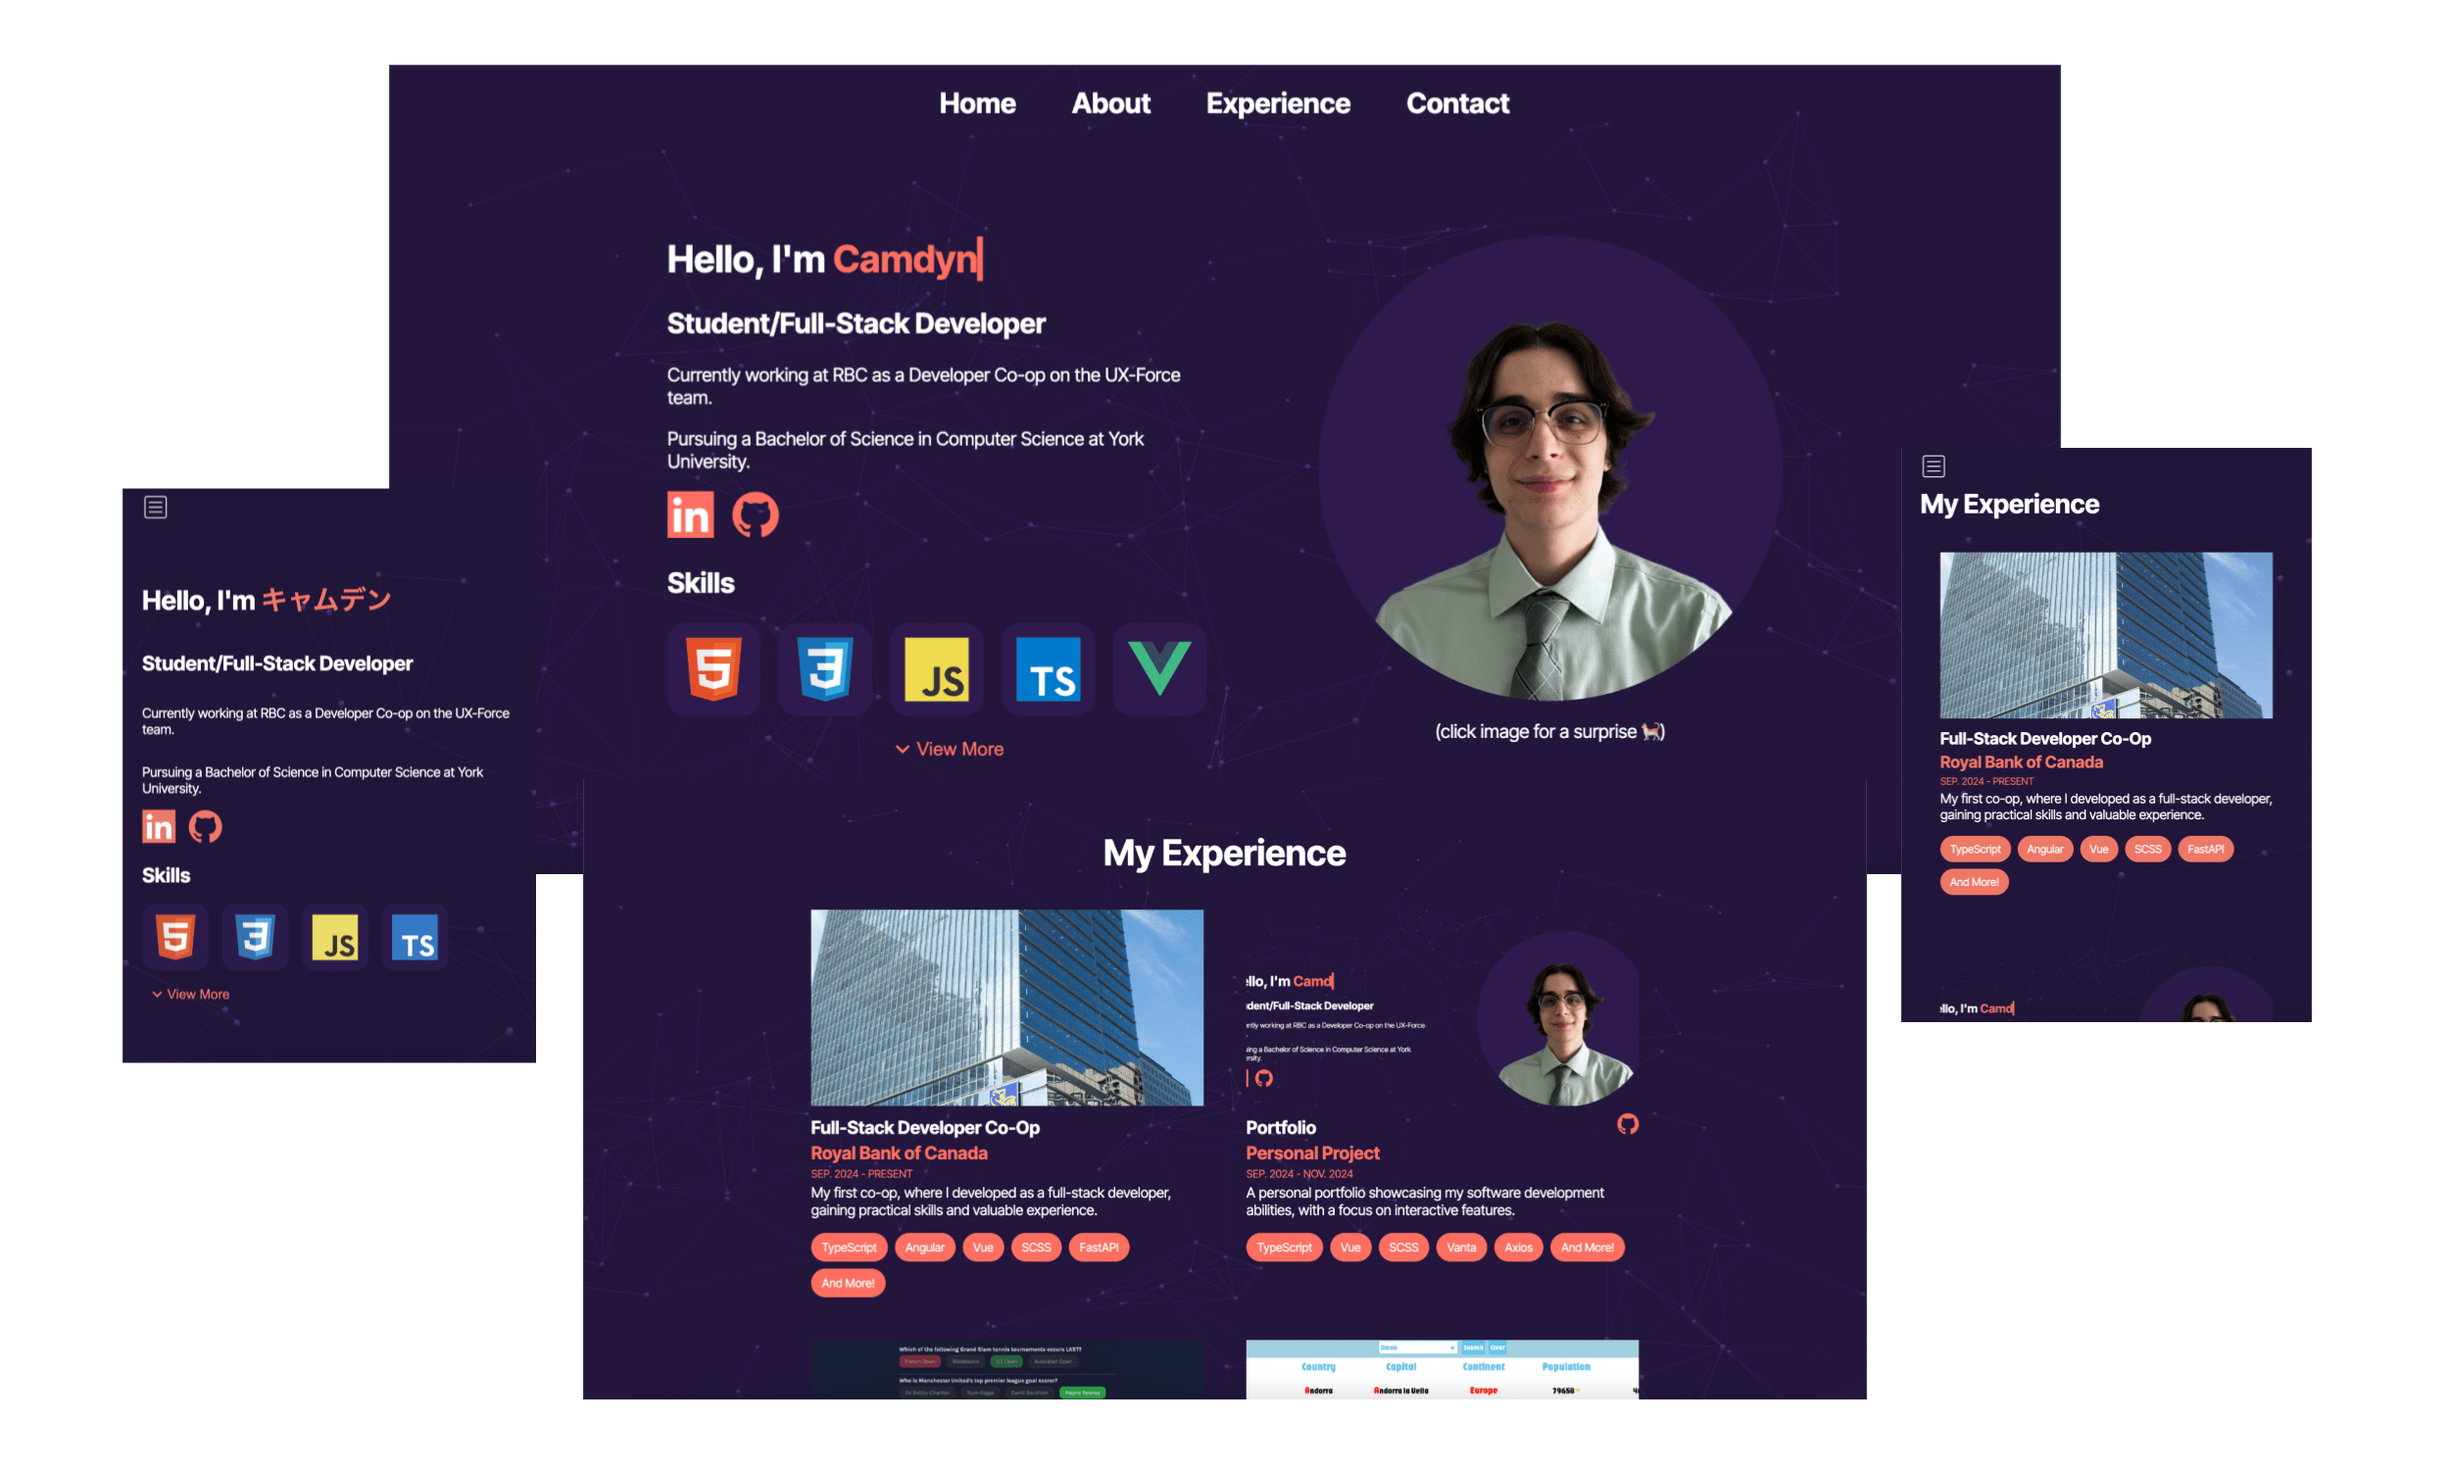
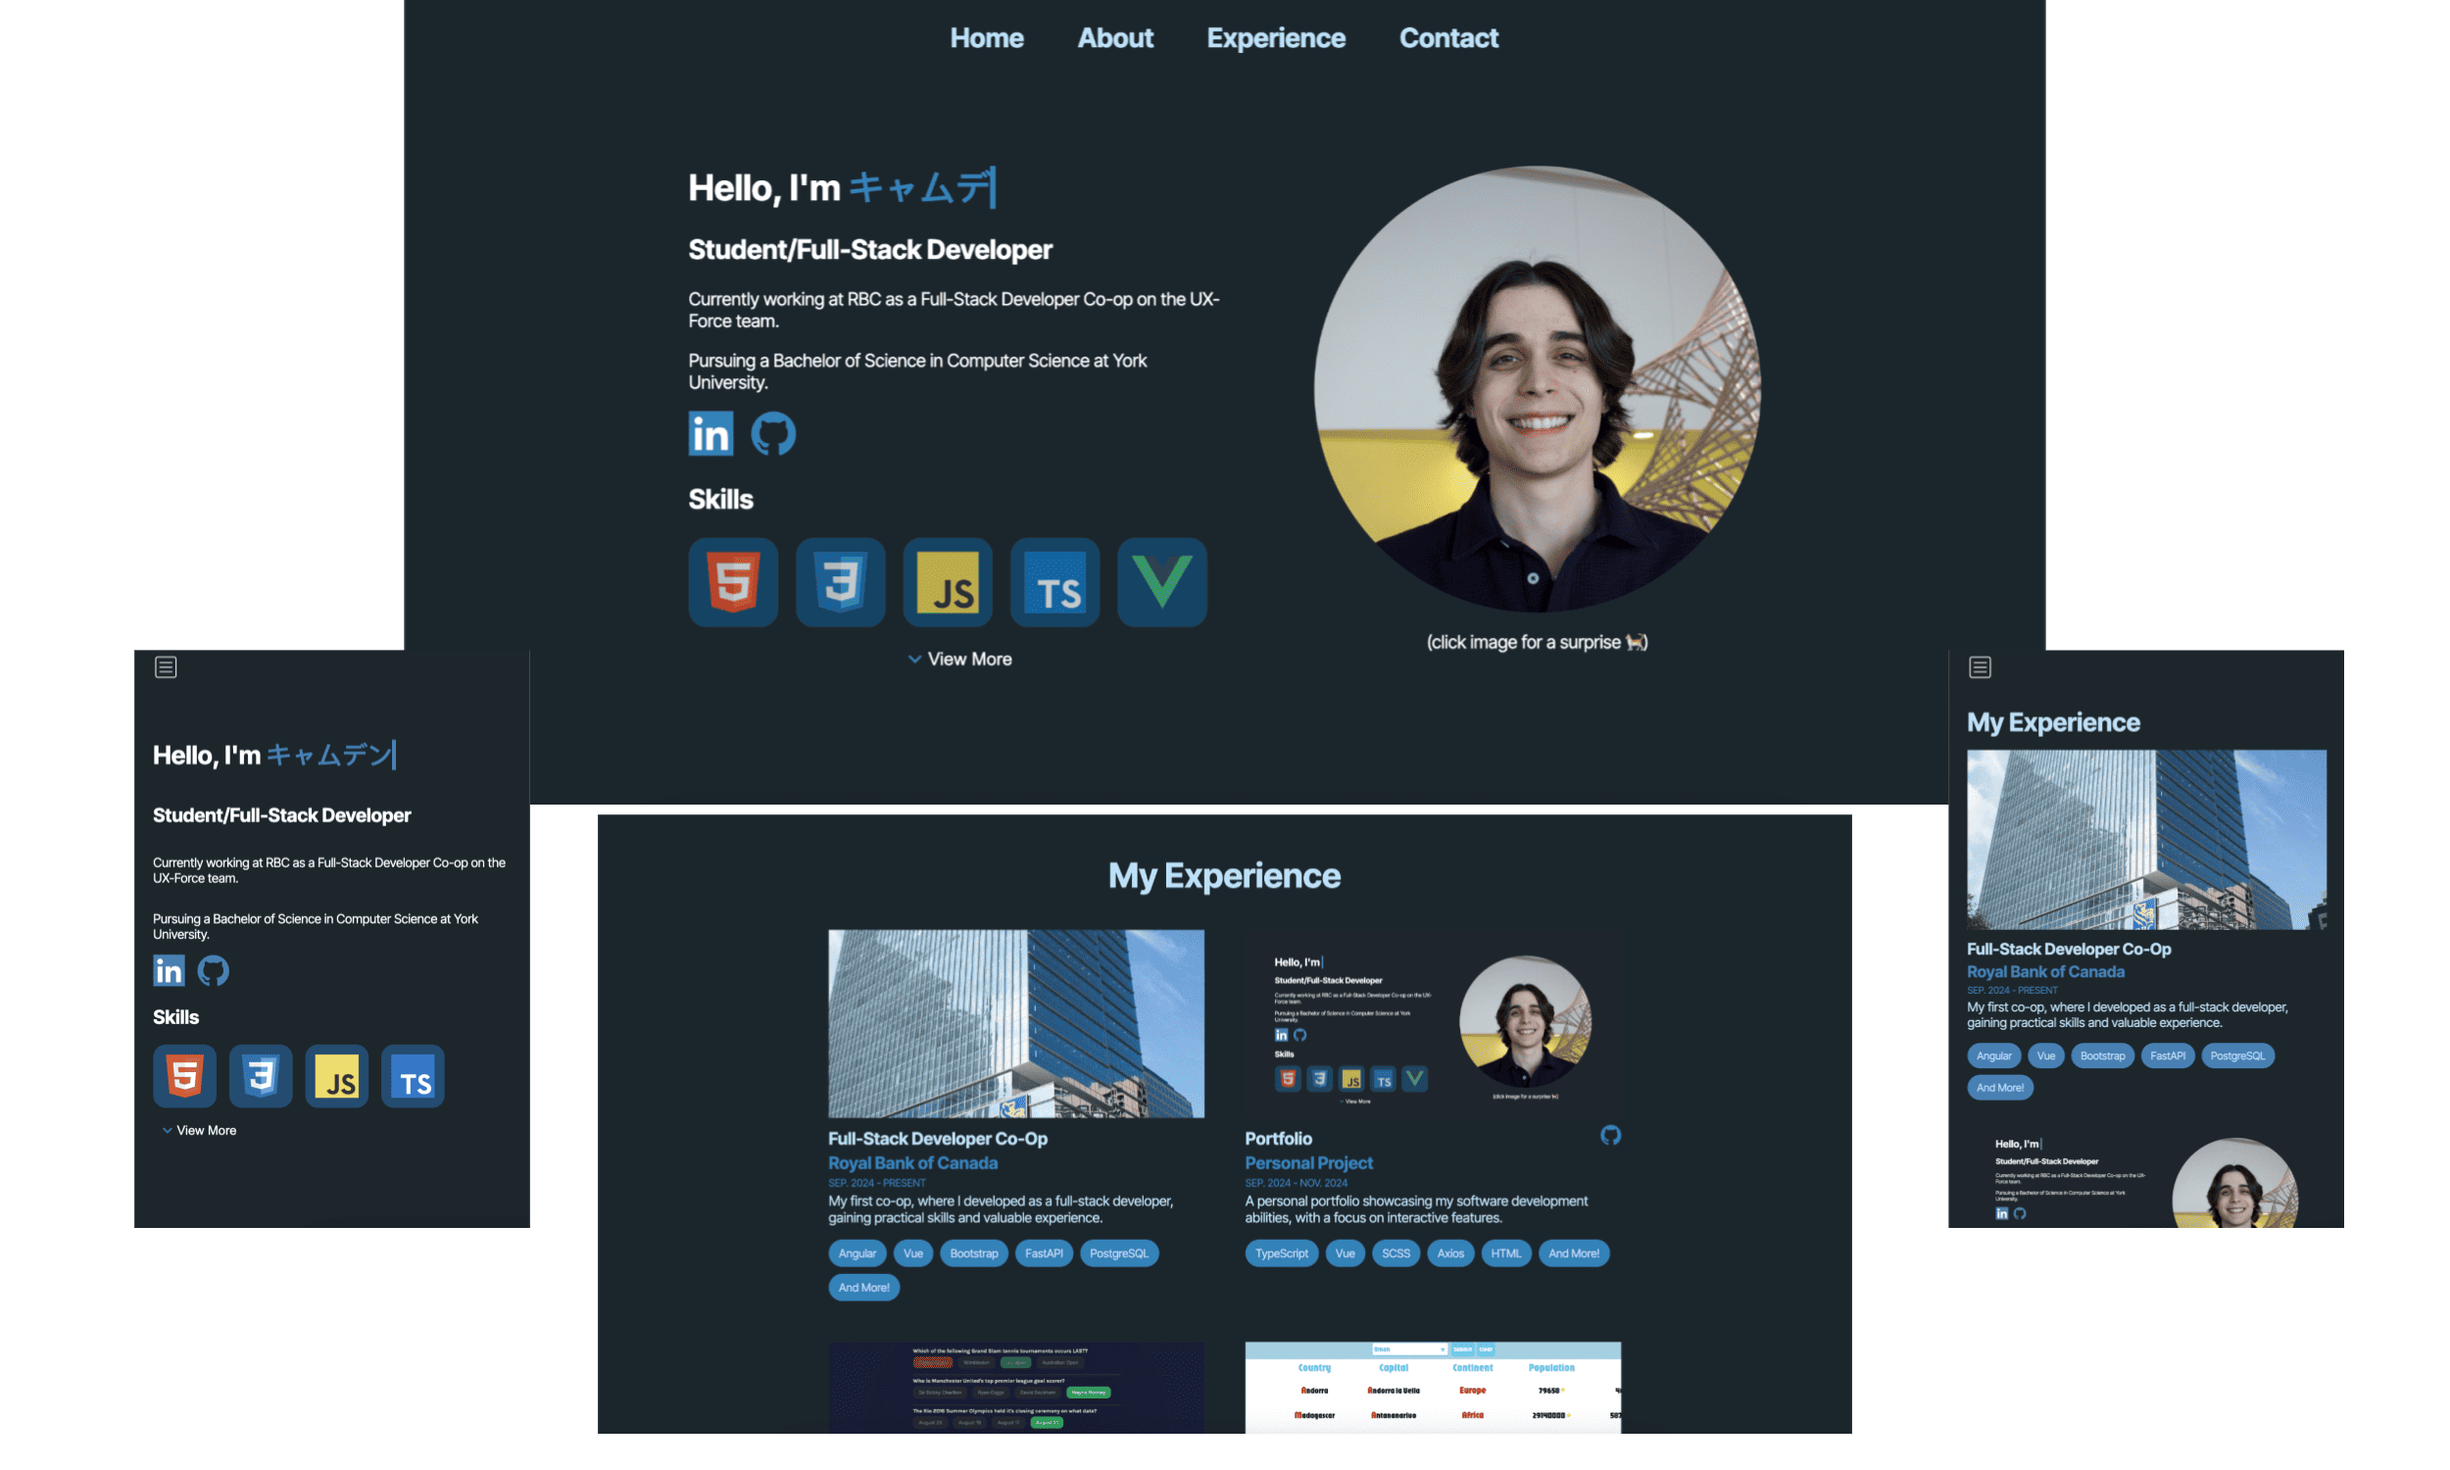
feat: updated colour scheming for portfolio

diff --git a/src/components/ExperienceCard.vue b/src/components/ExperienceCard.vue
@@ -45,7 +45,7 @@
 
       <h2 class="company">
         {{
-          experience.organization ? experience.organization : "Personal Project"
+          experience.organization ? experience.organization : 'Personal Project'
         }}
       </h2>
     </div>
@@ -88,42 +88,42 @@
 </template>
 
 <script setup lang="ts">
-import { ref } from "vue";
-import ExperienceModal from "./ExperienceModal.vue";
-import { useExperienceStore } from "../stores/experience";
-import { Experience } from "../types/ExperienceTypes";
+import { ref } from 'vue'
+import ExperienceModal from './ExperienceModal.vue'
+import { useExperienceStore } from '../stores/experience'
+import { Experience } from '../types/ExperienceTypes'
 
 const props = defineProps({
   index: { type: Number, required: true },
-});
+})
 
-const experienceStore = useExperienceStore();
-let experience: Experience;
+const experienceStore = useExperienceStore()
+let experience: Experience
 if (experienceStore.experiences) {
-  experience = experienceStore.experiences[props.index];
+  experience = experienceStore.experiences[props.index]
 }
 
-const images = import.meta.glob("../assets/experienceImages/*", {
+const images = import.meta.glob('../assets/experienceImages/*', {
   eager: true,
-  query: "?url",
-  import: "default",
-});
+  query: '?url',
+  import: 'default',
+})
 
-const showModal = ref<boolean>(false);
+const showModal = ref<boolean>(false)
 
 function toggleModal() {
-  const appContainer = document.getElementById("app-container");
+  const appContainer = document.getElementById('app-container')
   if (appContainer) {
     if (showModal.value) {
-      document.body.style.overflow = "auto";
-      appContainer.inert = false;
+      document.body.style.overflow = 'auto'
+      appContainer.inert = false
     } else {
-      document.body.style.overflow = "hidden";
-      appContainer.inert = true;
+      document.body.style.overflow = 'hidden'
+      appContainer.inert = true
     }
   }
 
-  showModal.value = !showModal.value;
+  showModal.value = !showModal.value
 }
 </script>
 
@@ -160,7 +160,7 @@ function toggleModal() {
 }
 
 .company {
-  color: #ff6f61;
+  color: #3282b8;
 }
 
 .experience-date,
@@ -175,7 +175,7 @@ function toggleModal() {
 
 .experience-date {
   font-size: 0.75rem;
-  color: #ff6f61;
+  color: #3282b8;
   margin: 0 0 0.25rem 0;
 }
 
@@ -203,10 +203,10 @@ function toggleModal() {
 }
 
 .skill {
-  background-color: #ff6f61;
-  font-family: "Inter Tight", Arial, Helvetica, sans-serif;
+  background-color: #3282b8;
+  font-family: 'Inter Tight', Arial, Helvetica, sans-serif;
   border: none;
-  color: white;
+  color: #bbe1fa;
   padding: 0.3rem 0.75rem 0.3rem 0.75rem;
   border-radius: 1rem;
   height: 2rem;

diff --git a/src/components/ExperienceModal.vue b/src/components/ExperienceModal.vue
@@ -23,12 +23,12 @@
       />
       <div class="experience-modal__title-container">
         <h2 class="experience-modal__title">
-          {{ experience.title + ", " }}
+          {{ experience.title + ', ' }}
           <span class="experience-modal__company">
             {{
               experience.organization
                 ? experience.organization
-                : "Personal Project"
+                : 'Personal Project'
             }}
           </span>
         </h2>
@@ -64,27 +64,27 @@
 </template>
 
 <script setup lang="ts">
-import CloseIcon from "../assets/Close Icon.svg";
-import { useExperienceStore } from "../stores/experience";
-import { Experience } from "../types/ExperienceTypes";
+import CloseIcon from '../assets/Close Icon.svg'
+import { useExperienceStore } from '../stores/experience'
+import { Experience } from '../types/ExperienceTypes'
 
-const images = import.meta.glob("../assets/experienceImages/*", {
+const images = import.meta.glob('../assets/experienceImages/*', {
   eager: true,
-  query: "?url",
-  import: "default",
-});
+  query: '?url',
+  import: 'default',
+})
 
 const props = defineProps({
   index: { type: Number, required: true },
-});
+})
 
-const experienceStore = useExperienceStore();
-let experience: Experience;
+const experienceStore = useExperienceStore()
+let experience: Experience
 if (experienceStore.experiences) {
-  experience = experienceStore.experiences[props.index];
+  experience = experienceStore.experiences[props.index]
 }
 
-const emit = defineEmits(["close"]);
+const emit = defineEmits(['close'])
 </script>
 
 <style lang="scss">
@@ -116,7 +116,7 @@ const emit = defineEmits(["close"]);
   max-height: 35rem;
   border-radius: 1rem;
   padding: 3rem;
-  background-color: #23153c;
+  background-color: #0f4c75;
   position: relative;
   display: flex;
   flex-direction: column;
@@ -139,7 +139,7 @@ const emit = defineEmits(["close"]);
   }
 
   &__company {
-    color: #ff6f61;
+    color: #3282b8;
     font-weight: bold;
   }
 
@@ -158,10 +158,10 @@ const emit = defineEmits(["close"]);
 }
 
 .skill {
-  background-color: #ff6f61;
-  font-family: "Inter Tight", Arial, Helvetica, sans-serif;
+  background-color: #3282b8;
+  font-family: 'Inter Tight', Arial, Helvetica, sans-serif;
   border: none;
-  color: white;
+  color: #bbe1fa;
   padding: 0.3rem 0.75rem 0.3rem 0.75rem;
   border-radius: 1rem;
   height: 2rem;
@@ -193,7 +193,7 @@ const emit = defineEmits(["close"]);
 }
 
 strong {
-  color: #ff6f61;
+  color: #3282b8;
 }
 
 @media only screen and (max-width: 56.25rem) {

diff --git a/src/components/Hamburger.vue b/src/components/Hamburger.vue
@@ -26,39 +26,39 @@
 </template>
 
 <script setup lang="ts">
-import { ref, watchEffect } from "vue";
+import { ref, watchEffect } from 'vue'
 
-const showNavbar = ref(false);
-const sections = ref<("Home" | "About" | "Experience" | "Contact")[]>([
-  "Home",
-  "About",
-  "Experience",
-  "Contact",
-]);
+const showNavbar = ref(false)
+const sections = ref<('Home' | 'About' | 'Experience' | 'Contact')[]>([
+  'Home',
+  'About',
+  'Experience',
+  'Contact',
+])
 
 const emit = defineEmits([
-  "toggleHome",
-  "toggleAbout",
-  "toggleExperience",
-  "toggleContact",
-]);
+  'toggleHome',
+  'toggleAbout',
+  'toggleExperience',
+  'toggleContact',
+])
 
 function toggleHamburger() {
-  showNavbar.value = !showNavbar.value;
+  showNavbar.value = !showNavbar.value
 }
 
-function toggleSection(section: "Home" | "About" | "Experience" | "Contact") {
-  showNavbar.value = false;
-  emit(`toggle${section}`);
+function toggleSection(section: 'Home' | 'About' | 'Experience' | 'Contact') {
+  showNavbar.value = false
+  emit(`toggle${section}`)
 }
 
 watchEffect(() => {
   if (showNavbar.value) {
-    document.body.style.overflow = "hidden";
+    document.body.style.overflow = 'hidden'
   } else {
-    document.body.style.overflow = "";
+    document.body.style.overflow = ''
   }
-});
+})
 </script>
 
 <style lang="scss">
@@ -85,7 +85,7 @@ watchEffect(() => {
     flex-direction: column;
     justify-content: center;
     align-items: center;
-    background-color: #ff6f61;
+    background-color: #3282b8;
     &__section {
       font-size: 1.5rem;
       transition: color 0.25s;

diff --git a/src/style.scss b/src/style.scss
@@ -1,6 +1,6 @@
 body {
-  font-family: "Inter Tight", Arial, Helvetica, sans-serif;
-  color: white;
+  font-family: 'Inter Tight', Arial, Helvetica, sans-serif;
+  color: #bbe1fa;
   margin: 0;
   padding: 0 3rem;
   display: flex;
@@ -20,18 +20,18 @@ h2 {
 
 .highlight {
   font-weight: bold;
-  color: #ff6f61;
+  color: #3282b8;
 }
 
 .link-button {
-  font-family: "Inter Tight", Arial, Helvetica, sans-serif;
+  font-family: 'Inter Tight', Arial, Helvetica, sans-serif;
   font-size: 1rem;
   font-weight: bold;
-  color: white;
-  background-color: #23153c;
+  color: #bbe1fa;
+  background-color: #0f4c75;
   text-decoration: none;
   border: solid;
-  border-color: #ff6f61;
+  border-color: #3282b8;
   border-width: 0.15rem;
   border-radius: 5rem;
   padding: 0.5rem 1rem 0.5rem 1rem;
@@ -41,7 +41,7 @@ h2 {
 
 .link-button:hover,
 .link-button:focus {
-  background-color: #ff6f61;
+  background-color: #3282b8;
   cursor: pointer;
 }
 

diff --git a/src/components/Navbar.vue b/src/components/Navbar.vue
@@ -14,14 +14,14 @@
 </template>
 
 <script setup lang="ts">
-import { ref } from "vue";
+import { ref } from 'vue'
 
-const sections = ref<("Home" | "About" | "Experience" | "Contact")[]>([
-  "Home",
-  "About",
-  "Experience",
-  "Contact",
-]);
+const sections = ref<('Home' | 'About' | 'Experience' | 'Contact')[]>([
+  'Home',
+  'About',
+  'Experience',
+  'Contact',
+])
 </script>
 
 <style>
@@ -37,13 +37,13 @@ nav {
 }
 
 .section {
-  color: white;
+  color: #bbe1fa;
   transition: color 0.25s;
 }
 
 .section:hover,
 .section:focus {
-  color: #ff6f61;
+  color: #3282b8;
   cursor: pointer;
 }
 </style>

diff --git a/src/App.vue b/src/App.vue
@@ -61,28 +61,7 @@ function scrollToElement(elementId: string) {
   width: 100vw;
   height: 100vh;
   overflow: hidden;
-  background: linear-gradient(
-    135deg,
-    #1a0f2e 0%,
-    #2d1b4e 25%,
-    #3e2a63 50%,
-    #2d1b4e 75%,
-    #1a0f2e 100%
-  );
-  background-size: 400% 400%;
-  animation: gradientShift 15s ease infinite;
-}
-
-@keyframes gradientShift {
-  0% {
-    background-position: 0% 50%;
-  }
-  50% {
-    background-position: 100% 50%;
-  }
-  100% {
-    background-position: 0% 50%;
-  }
+  background: #1b262c;
 }
 
 .hamburger {

diff --git a/src/components/Home.vue b/src/components/Home.vue
@@ -199,7 +199,7 @@ function toggleAllSkills() {
 
   &__name {
     line-height: 1.2;
-    color: #ff6f61;
+    color: #3282b8;
   }
 
   &__profile-picture {
@@ -239,7 +239,7 @@ function toggleAllSkills() {
   margin-bottom: 1rem;
 
   &__frame {
-    background-color: #2e1a4d;
+    background-color: #0f4c75;
     opacity: 75%;
     width: 5rem;
     height: 5rem;
